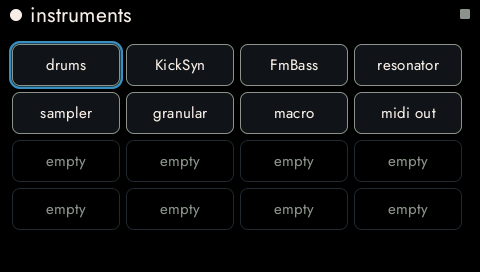
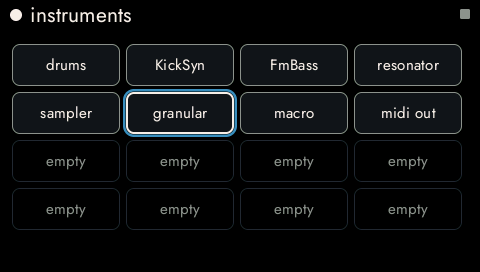
The granular is on its own track F, in the unit, the pieces and a new project
Track F was left empty when the granular was built. It now holds the granular in the unit's start, in the eight factory projects (each with a fitting preset) and in a new empty project; the twin, docs and manual say so, and a test checks the order of the eight instruments (F-I07).

Changed region(s): [[0.25, 0.3235, 0.5, 0.5294], [0.0, 0.1471, 0.25, 0.3529], [0.25, 0.1765, 0.2812, 0.2941]]

diff --git a/guide/manual.tpl.html b/guide/manual.tpl.html
@@ -145,7 +145,7 @@ __PIECE_ROWS__
 <p class="sub">No rules, only things to press.</p>
 <ol class="steps">
   <li><div>Press <kbd>PLAY</kbd>. The demo plays, and the pad lights run along the steps. Press <kbd>PLAY</kbd> again to pause, and <kbd>STOP</kbd> to stop. <kbd>RESTART</kbd> goes back to step 1 and keeps playing.</div></li>
-  <li><div>Press the group buttons <kbd>A</kbd> to <kbd>H</kbd> one after another. Each track has its own colour and its own instrument, in the order of <kbd>PLUG-IN</kbd>: drums, kick, bass, strings and bells, sampler, (F is empty: choose the granular there, recipe 20), synth, and last the MIDI out. The right screen changes with it.</div></li>
+  <li><div>Press the group buttons <kbd>A</kbd> to <kbd>H</kbd> one after another. Each track has its own colour and its own instrument, in the order of <kbd>PLUG-IN</kbd>: drums, kick, bass, strings and bells, sampler, granular (recipe 20), synth, and last the MIDI out. The right screen changes with it.</div></li>
   <li><div>Hold <kbd>MUTE</kbd> and press a group button: that track goes quiet. Do it again to bring it back. Mute everything except the bass and the kick and you have the skeleton of the piece.</div></li>
   <li><div>Turn knobs 5–8 while the demo plays. The right screen names what each one does, and the picture changes with the sound. This is the main way to shape a sound.</div></li>
   <li><div>Hold <kbd>TEMPO</kbd> and turn the 4D encoder (the big knob in the corner): the tempo changes, and the left screen shows it in large numbers while you hold the button.</div></li>
@@ -337,9 +337,9 @@ __PIECE_ROWS__
   <h3>11 <span>CHOOSE AN INSTRUMENT</span></h3>
   <p class="goal">Put a different instrument on a track.</p>
   <ol class="steps">
-    <li><div>Press group <kbd>F</kbd> (empty).</div></li>
+    <li><div>Press group <kbd>F</kbd> (it has the granular; any track can take any instrument).</div></li>
     <li><div>Press <kbd>PLUG-IN</kbd>. Both screens show sixteen places. The top two rows are the eight instruments that come with OP-8, from the most guttural to the most refined: <b>drums</b>, <b>KickSyn</b>, <b>FmBass</b>, <b>resonator</b> on the first row; <b>sampler</b>, <b>granular</b>, <b>macro</b> and, last, <b>midi out</b> on the second. The tracks follow the same order: A is the drums and H the MIDI out. The two bottom rows are places for instruments you will install later. The instrument this track has is outlined.</div></li>
-    <li><div>Tap the fourth pad, the <b>resonator</b>. It goes on track F, and the screens go back to composing.</div></li>
+    <li><div>Tap the fourth pad, the <b>resonator</b>. It takes the place of the granular on track F (you can bring the granular back the same way), and the screens go back to composing.</div></li>
     <li><div>Press <kbd>5</kbd> (<kbd>sound</kbd>) and <kbd>6</kbd> (<kbd>shape</kbd>) to move between the instrument's two pages of four knobs.</div></li>
   </ol>
   <figure><div class="pair"><img src="img/r11-plugin-left.png" alt="PLUG-IN: sixteen places."><img src="img/r11-shape-right.png" alt="The second page of the resonator."></div><figcaption>Left: the sixteen places. Right: the second page of the resonator, with its drawing of eight bells.</figcaption></figure>
@@ -469,7 +469,7 @@ __PIECE_ROWS__
   <h3>20 <span>GRANULAR: A CLOUD FROM A SOUND</span></h3>
   <p class="goal">Turn a short sound into something that lasts, and move through it while it sounds.</p>
   <ol class="steps">
-    <li><div>Press group <kbd>F</kbd> (it is empty), then <kbd>PLUG-IN</kbd> and tap <b>granular</b>, the sixth of the eight on the top two rows. The right screen draws the <b>wave</b> of a sound (the <b>pad</b>, to begin with).</div></li>
+    <li><div>Press group <kbd>F</kbd>: the <b>granular</b> is there already (it is the sixth instrument of <kbd>PLUG-IN</kbd>, between the sampler and the synth, and track F; if you put something else on F, tap <b>granular</b> in <kbd>PLUG-IN</kbd> to bring it back). The right screen draws the <b>wave</b> of a sound (the <b>pad</b>, to begin with).</div></li>
     <li><div>Press <kbd>KEYBOARD</kbd> and hold a pad. A cloud starts, and every grain that sounds is drawn as a small <b>bar</b> where it is reading the sound. Hold two or three pads: the grains take their pitch from the keys, in turn.</div></li>
     <li><div>Still holding, turn <b>knob 6, position</b>: the line in the colour of knob 6 moves along the wave and the cloud is cut from somewhere else. <b>Knob 7, size</b>, is how long each grain is (the line under the wave, in the colour of knob 7): short grains are a buzz, long ones a smear of the original sound.</div></li>
     <li><div><b>Knob 8, density</b>, does two things. Below the middle the grains come at <b>regular</b> intervals and the further left, the more of them; above the middle they come <b>by chance</b>, and the further right, the more of them. In the <b>middle</b>, a small dead zone, only the one grain that each key starts is heard: a sound that is cut and pitched, like a sampler.</div></li>

diff --git a/twin/op8-twin.html b/twin/op8-twin.html
@@ -430,9 +430,9 @@ const CARTS = {
   midi: { name: "MIDIOUTBRIDGE", cat: "MIDI",
     params: [["CHANNEL",0,v=>"CH "+(Math.min(15,Math.floor(v*16))+1)],["TRANSP",.5,v=>{const s=Math.round(-24+48*v);return (s>0?"+":"")+s+"st";}],["VEL",1,v=>Math.round(v*100)+"%"],["CC74",.5,v=>Math.round(v*100)+"%"]] },
 };
-// the instruments run from the most guttural to the most refined, the order of PLUG-IN: drums, kick, bass, resonator, sampler, (granular), the leads (macro), and the MIDI out last
+// the instruments run from the most guttural to the most refined, the order of PLUG-IN: drums, kick, bass, resonator, sampler, granular, the leads (macro), and the MIDI out last
 let VOL = 1; // master volume
-const SLOTS = ["drums", "kick", "fm", "resonator", "sampler", null, "macro", "midi"];
+const SLOTS = ["drums", "kick", "fm", "resonator", "sampler", "granular", "macro", "midi"];
 const PARAMS = SLOTS.map(s => s ? CARTS[s].params.map(p => p[1]) : null);
 // the knobs edit the chosen drum sound: keep its values in step with PARAMS
 function drumsSync(t, i) {
@@ -1256,11 +1256,11 @@ function settingsBar(g, title) { dot(g, 16, 15, 6, FG); txt(g, title, 30, 6, "mi
 const FILE_NAMES = ["house", "boom bap", "dub", "polyrhythm", "acid", "electro", "ambient", "breaks"];
 // The eight pieces that come with the machine (crates/op8/src/factory.rs): the same steps, components, chords, effects and LFOs.
 const KICK = 1, SNARE = 2, CHAT = 4, OHAT = 8, TOM = 16, CLAP = 32, RIM = 64, CRASH = 128;
-const PIECE_PRESETS = [ // by track A to H, and the share of each instrument's level that the piece keeps
-  [["", "punch", "round", "steel", "", "", "chords", ""], 0.85], [["", "soft", "sub", "nylon", "voice", "", "", ""], 1.0],
-  [["", "boom", "sub", "bell", "", "", "swarm", ""], 0.8], [["", "soft", "", "harp", "bell", "", "strings", ""], 1.0],
-  [["", "tight", "acid", "", "", "", "", ""], 0.5], [["", "click", "growl", "", "", "", "chip", ""], 0.65],
-  [["", "", "", "glass", "pad", "", "strings", ""], 1.0], [["", "hard", "growl", "muted", "tick", "", "", ""], 1.0]];
+const PIECE_PRESETS = [ // by track A to H, and the share of each instrument's level that the piece keeps (the same as PRESETS in factory.rs)
+  [["", "punch", "round", "steel", "", "shimmer", "chords", ""], 0.85], [["", "soft", "sub", "nylon", "voice", "rumble", "", ""], 1.0],
+  [["", "boom", "sub", "bell", "", "dust", "swarm", ""], 0.8], [["", "soft", "", "harp", "bell", "bells", "strings", ""], 1.0],
+  [["", "tight", "acid", "", "", "swarm", "", ""], 0.5], [["", "click", "growl", "", "", "glitch", "chip", ""], 0.65],
+  [["", "", "", "glass", "pad", "cloud", "strings", ""], 1.0], [["", "hard", "growl", "muted", "tick", "glitch", "", ""], 1.0]];
 function brainOf(key, scale, kind, degrees) { return { key, scale, mode: 1, len: degrees.length, live: null, prog: Array.from({ length: 8 }, (_, k) => ({ degree: degrees[k] || 0, kind, length: 16 })) }; }
 function factoryProject(i) {
   const p = demoProject();
@@ -1330,7 +1330,7 @@ function factoryProject(i) {
 // the standard tracks, in the order of PLUG-IN: A drums, B kick, C fm, D resonator, E sampler, F empty (the granular), G macro, H MIDI out
 function applyPiece(i) {
   const [names, gain] = PIECE_PRESETS[i];
-  SLOTS.splice(0, 8, "drums", "kick", "fm", "resonator", "sampler", null, "macro", "midi");
+  SLOTS.splice(0, 8, "drums", "kick", "fm", "resonator", "sampler", "granular", "macro", "midi");
   SLOTS.forEach((s, t) => {
     PARAMS[t] = s ? CARTS[s].params.map(q => q[1]) : null;
     if (!s) return;

diff --git a/crates/op8/src/factory.rs b/crates/op8/src/factory.rs
@@ -1,7 +1,7 @@
 //! The eight projects that always ship (the top two rows of the FILE pads): eight short pieces in eight
 //! styles, so that the first thing anyone hears is what the machine can do. Each is made only with the
 //! factory instruments and their presets, on the standard tracks (A drums, B KickSyn, C FmBass, D resonator,
-//! E MIDI out, F macro, G sampler), so it always loads.
+//! E sampler, F granular, G macro, H MIDI out), so it always loads.
 
 use crate::projectfile::ProjectFile;
 use op8_seq::{
@@ -48,7 +48,7 @@ fn inst(name: &str, preset: &str, gain: f32) -> Option<(String, Vec<u8>)> {
 /// The instruments of a piece, by track: the standard layout, with a preset on each that plays and the level of each brought by `gain`
 /// (the pieces are about as loud as each other).
 fn instruments(presets: [&str; 8], gain: f32) -> Vec<Option<(String, Vec<u8>)>> {
-    let names = [Some("drums"), Some("KickSyn"), Some("FmBass"), Some("resonator"), Some("sampler"), None, Some("macro"), Some("MidiOutBridge")];
+    let names = [Some("drums"), Some("KickSyn"), Some("FmBass"), Some("resonator"), Some("sampler"), Some("granular"), Some("macro"), Some("MidiOutBridge")];
     names.iter().zip(presets).map(|(n, p)| n.and_then(|n| inst(n, p, gain))).collect()
 }
 
@@ -286,14 +286,14 @@ pub fn project(i: usize) -> Project {
 
 /// The presets of each piece, by track A to H (`""`: as it comes), and how much of the level of its instruments it keeps.
 const PRESETS: [([&str; 8], f32); 8] = [
-    (["", "punch", "round", "steel", "", "", "chords", ""], 0.85),
-    (["", "soft", "sub", "nylon", "voice", "", "", ""], 1.0),
-    (["", "boom", "sub", "bell", "", "", "swarm", ""], 0.8),
-    (["", "soft", "", "harp", "bell", "", "strings", ""], 1.0),
-    (["", "tight", "acid", "", "", "", "", ""], 0.5),
-    (["", "click", "growl", "", "", "", "chip", ""], 0.65),
-    (["", "", "", "glass", "pad", "", "strings", ""], 1.0),
-    (["", "hard", "growl", "muted", "tick", "", "", ""], 1.0),
+    (["", "punch", "round", "steel", "", "shimmer", "chords", ""], 0.85),
+    (["", "soft", "sub", "nylon", "voice", "rumble", "", ""], 1.0),
+    (["", "boom", "sub", "bell", "", "dust", "swarm", ""], 0.8),
+    (["", "soft", "", "harp", "bell", "bells", "strings", ""], 1.0),
+    (["", "tight", "acid", "", "", "swarm", "", ""], 0.5),
+    (["", "click", "growl", "", "", "glitch", "chip", ""], 0.65),
+    (["", "", "", "glass", "pad", "cloud", "strings", ""], 1.0),
+    (["", "hard", "growl", "muted", "tick", "glitch", "", ""], 1.0),
 ];
 
 /// A new, empty project: the standard instruments as they come and nothing in the steps (a tap on an empty place of FILE).

diff --git a/crates/op8/tests/plugin.rs b/crates/op8/tests/plugin.rs
@@ -125,3 +125,29 @@ fn f_i06_the_granular_plays_a_cloud_from_a_step() {
     b.tap(pad_of(3));
     assert!(b.ui().browse_note.starts_with("loaded"), "{}", b.ui().browse_note);
 }
+
+// F-I07: the standard tracks hold the eight instruments in the order of PLUG-IN, from the most guttural to the most refined, with the MIDI out
+// last: A drums, B KickSyn, C FmBass, D resonator, E sampler, F granular, G macro, H MIDI out. The unit starts so, and so does every project
+// that comes with it and a new empty one.
+#[test]
+fn f_i07_the_standard_tracks_hold_the_eight_instruments_in_order() {
+    let order = ["drums", "KickSyn", "FmBass", "resonator", "sampler", "granular", "macro", "MidiOutBridge"];
+    let check = |b: &Bench, what: &str| {
+        for (t, name) in order.iter().enumerate() {
+            assert_eq!(b.instrument(t).as_deref(), Some(*name), "{what}: track {t}");
+        }
+    };
+    check(&Bench::demo(), "the unit as it starts");
+    check(&Bench::empty(), "the empty rig");
+    let mut b = Bench::demo();
+    for slot in 0..8 {
+        b.press(Button::File);
+        b.tap(pad_of(slot));
+        b.run_ms(50);
+        check(&b, &format!("factory project {slot}"));
+    }
+    b.press(Button::File);
+    b.tap(pad_of(10)); // an empty place of the player's: a new empty project
+    b.run_ms(50);
+    check(&b, "a new empty project");
+}

diff --git a/crates/op8/src/demo.rs b/crates/op8/src/demo.rs
@@ -2,7 +2,7 @@
 //! `op8 run` on first boot and by `op8 sim`.
 
 use op8_cartridge::InstrumentCartridge;
-use op8_cartridges::{Drums, FmBass, KickSyn, MacroOsc, MidiMessage, MidiOutBridge, Resonator, Sampler};
+use op8_cartridges::{Drums, FmBass, Granular, KickSyn, MacroOsc, MidiMessage, MidiOutBridge, Resonator, Sampler};
 use op8_engine::{Engine, EngineHandle, SharedCartridge};
 use op8_seq::{Project, Step, StepComponent, TRACKS};
 use std::sync::{Arc, Mutex};
@@ -14,7 +14,7 @@ fn shared(c: impl InstrumentCartridge + 'static) -> Option<SharedCartridge> {
 }
 
 /// The instruments run from the most guttural to the most refined, the order of PLUG-IN: A drums (a kit), B KickSyn,
-/// C FmBass, D resonator, E sampler, F empty (the granular is chosen in PLUG-IN), G macro (the leads), H the MIDI out (always last).
+/// C FmBass, D resonator, E sampler, F granular, G macro (the leads), H the MIDI out (always last).
 pub fn slots() -> (
     [Option<SharedCartridge>; TRACKS],
     rtrb::Consumer<MidiMessage>,
@@ -26,6 +26,7 @@ pub fn slots() -> (
     s[2] = shared(FmBass::new());
     s[3] = shared(Resonator::new());
     s[4] = shared(Sampler::new());
+    s[5] = shared(Granular::new());
     s[6] = shared(MacroOsc::new());
     s[7] = shared(bridge);
     (s, midi_rx)

diff --git a/crates/op8/tests/manual.rs b/crates/op8/tests/manual.rs
@@ -308,7 +308,7 @@ fn recipe_10_perform() {
 fn recipe_11_choose_an_instrument() {
     let _one_at_a_time = serial();
     let mut b = Bench::empty();
-    b.press(Button::Group(5)); // F is empty
+    b.press(Button::Group(5)); // F: the granular, which the resonator replaces
     b.press(Button::PlugIn);
     b.run_ms(100);
     b.capture("r11-plugin");
@@ -563,9 +563,10 @@ fn recipe_19_the_mix() {
 fn recipe_20_granular_a_cloud_from_a_sound() {
     let _one_at_a_time = serial();
     let mut b = Bench::demo();
-    b.press(Button::Group(5)); // F, empty
+    b.press(Button::Group(5)); // F: the granular is there already
+    assert_eq!(b.instrument(5).as_deref(), Some("granular"));
     b.press(Button::PlugIn);
-    b.tap(pad(6)); // the granular, the sixth of the eight
+    b.tap(pad(6)); // choosing it again changes nothing
     assert_eq!(b.instrument(5).as_deref(), Some("granular"));
     b.press(Button::Keyboard);
     b.strike_at(0, 0.9); // hold a pad

diff --git a/crates/op8/src/bench.rs b/crates/op8/src/bench.rs
@@ -196,6 +196,12 @@ impl Bench {
         self.app.handle.slots[track].as_ref().and_then(|c| c.lock().ok().map(|c| c.info().name))
     }
 
+    /// Take the instrument off a track (a test of what a track with nothing on it does).
+    pub fn clear_instrument(&mut self, track: usize) {
+        self.app.handle.slots[track] = None;
+        self.app.handle.send(op8_engine::EngineCommand::LoadCartridge { track: track as u8, cartridge: None });
+    }
+
     /// Where FILE saves the player's projects (a folder of the test's own).
     pub fn set_presets_dir(&mut self, dir: std::path::PathBuf) {
         self.app.ctl.presets_dir = Some(dir);

diff --git a/crates/op8/tests/browser.rs b/crates/op8/tests/browser.rs
@@ -144,6 +144,7 @@ fn f_k16_the_presets_that_come_with_it() {
     assert!(b.param(0, 1) > 0.7, "decay is the preset's");
     // and a track with no instrument has none
     b.press(Button::Browser);
+    b.clear_instrument(5);
     b.press(Button::Group(5));
     b.press(Button::Browser);
     b.tap(pad_of(1));

diff --git a/docs/roadmap.md b/docs/roadmap.md
@@ -123,7 +123,7 @@ Asked by Javi on 2026-11-15, one pull request each, in this order:
 2. **BROWSER (presets), the sampler's stage 3.** Done (2026-11-15, not yet tried on the unit): the button opens a main mode on both screens; the sixteen pads are sixteen presets of the selected track's instrument (the top two rows the instrument's own, the bottom two the player's); a tap loads one and plays a note, SHIFT + tap on the bottom rows saves the current knobs into `~/.config/op8/presets/<instrument>/user-N.preset`. Presets are per instrument. The presets that come with the instruments are done as a first set of eight each (2026-11-15, [instruments.md §8](instruments.md)), checked by measurement and not yet by ear. To do: tune them on the unit, naming and deleting a preset.
 3. **The manual, complete and in matte.** Done (2026-11-15): a diagram of the unit at the start with every part named and numbered (buttons, screens, knobs, pads, groups, transport, 4D encoder, Smart Strip), so that the rest of the manual can say "button 5" or "group G"; the manual checked against the code (the instruments, "where OP-8 keeps your things", "if something is odd", "not yet"); the page and all its pictures in the matte theme; recipes 16 (SAMPLING) and 17 (BROWSER).
 4. **The public site (guide and manual).** Asked on 2026-11-15: the guide and the manual as one introduction to the project that can be published, well connected, in the matte theme (matte first, then glossy, then chrome; brand stays apart). Done: the sources are templates with a shared header, footer and style; `scripts/build-site.py` builds `site/` (pages, 404, `robots.txt`, `sitemap.xml`, the sharing image, social tags, the twin as "Try it"); `scripts/check-site.py` checks links, anchors, images and metadata and runs in `cargo test` (F-G05); the Pages workflow builds, checks and publishes it; the manual works on a phone. The home page now says what OP-8 is, what you need (the MK3 and a Pi 5, with a Pi 4 as the floor) and where it stands, in plain words for someone who has never heard of it. To do: look at it on a phone and a laptop once published; **to publish**, fill in the address of the site and of the repository (`guide/site.json`, or `OP8_SITE_URL` and the repository variable `OP8_REPO_URL`) and enable Pages (Settings, Pages, source GitHub Actions; a public repository or a plan that includes Pages), then look at it once on a phone and a laptop.
-5. **Eight pieces and the order of the instruments.** Asked on 2026-11-15: eight musical examples to hear what the machine can do, and the MIDI out last. Done: the factory projects are house, boom bap, dub, polyrhythm, acid, electro, ambient and breaks (levels matched, F-F07); PLUG-IN and the standard tracks run drums, KickSyn, FmBass, resonator, sampler, (granular), macro, MIDI out; an empty place of the player's in FILE opens a new empty project; a pad that closes FILE or PLUG-IN no longer toggles a step when it is let go. To do: tune the pieces and the presets by ear on the unit.
+5. **Eight pieces and the order of the instruments.** Asked on 2026-11-15: eight musical examples to hear what the machine can do, and the MIDI out last. Done: the factory projects are house, boom bap, dub, polyrhythm, acid, electro, ambient and breaks (levels matched, F-F07); PLUG-IN and the standard tracks run drums, KickSyn, FmBass, resonator, sampler, granular, macro, MIDI out; an empty place of the player's in FILE opens a new empty project; a pad that closes FILE or PLUG-IN no longer toggles a step when it is let go. To do: tune the pieces and the presets by ear on the unit.
 6. **Navigation with the 4D encoder.** Asked on 2026-11-15: every screen has items that can be reached with the central 4D encoder, global and easy. Decided: a focus that is always visible (a ring and a dot), the encoder turns it, the arrows move it across the screens, push activates or grabs a value, and the tempo is only turned while TEMPO is held. Done (2026-11-15; no dot, only the frame): the mechanism and every view: FILE, PLUG-IN, BROWSER, SAMPLING (with its four values) and composing (the screen buttons 1–8, the tracks A–H, the pads of the grid and the eight values under the screens, which push grabs and the 4D edits), and an opened piece shows its music (F-N01 to F-N10). Not yet tried on the unit. 2026-11-16: the frame of a track hugs its round capsule, and PERFORM works with the 4D (the focus visits the sixteen effects where they are drawn, push engages one and keeps it, turning is its intensity; Brain lists no pads) (F-N11, F-N12). 2026-11-16, after a photo of the unit: the ink over a coloured fill is made to read (`readable`, F-D19) and no ring goes off the screen, the ring of a screen button lying on its own capsule (F-N13). 2026-11-16: the eight sounds of a drum kit can be chosen with the 4D from the right screen (F-N14). The step inspector's own items were added on 2026-11-16 (F-N15).
 7. **After that.** Granular (reuses the sampler); KEYBOARD on a drum kit like PAD MODE; a basic mixer; naming and deleting projects; PATTERN, SCENE and ARRANGER; real-MK3 verification of everything marked "not yet tried" above.
 
@@ -134,7 +134,7 @@ Saved on 2026-11-16, after the batch of section 8. Development goes on first and
 **Development, in the order proposed**
 
 1. Done (2026-11-16): the step inspector's own items: its components and values reached with the focus and the 4D, like every other view (F-N15).
-2. Done (2026-11-16): granular, from the grain scheduler of Clouds (MIT) rewritten in Rust, on the sampler's bank of sounds (F-A21, F-I06). Not tried by ear on the unit yet.
+2. Done (2026-11-16): granular, from the grain scheduler of Clouds (MIT) rewritten in Rust, on the sampler's bank of sounds (F-A21, F-I06), and on its own track F in the standard layout, in the unit, the eight pieces and a new empty project (F-I07). Not tried by ear on the unit yet.
 3. Done (2026-11-16): KEYBOARD on a drum kit is PAD MODE (F-K17).
 4. Done (2026-11-16): the basic mixer: a level and a pan for each track, turned with VOLUME held and the knobs (SHIFT for the pan), saved with the project (format version 3) (F-A20, F-K18, F-D20). Still to do: a master compressor, sends, and a page for the MIXER button.
 5. Done (2026-11-16): names for projects and presets (by the day, and a text file the player can edit) and ERASE + a tap, twice, to erase one (F-F08, F-F09, F-K19). **To do, later:** naming on the unit itself: a text screen where the 4D encoder chooses the letter, the pads move the cursor and SHIFT keeps it (names of up to 12 characters); it would be reusable for any other name.

diff --git a/docs/features.md b/docs/features.md
@@ -194,6 +194,7 @@ The buttons and their implementation status are in [buttons.md](buttons.md). Thi
 | F-K19 | The same in BROWSER for the presets of an instrument: named by the day, erased on the second touch, those that come with the instrument stay | `ui().browse`, `ui().confirm`, the files | ✓ |
 | F-A21 | The granular makes a cloud only while a note is held and fades after: nothing without a note; `position` chooses where in the sound the grains are cut; `density` is regular on one side of the middle, random on the other and only the note's own grain in the middle, with more grains the further from the middle; `size` is how long that grain lasts; held notes and `tune` set the pitch (an octave is twice the crossings); `spread` scatters between the speakers (none: both the same); the same notes make the same cloud, and six notes at the busiest stay finite and bounded; a sound put in a place while it plays is the one heard; an empty place is silent; the drawing shows the grains | unit tests in `granular.rs` on the audio of a tone | ✓ |
 | F-I06 | The granular can be chosen in PLUG-IN, plays a cloud from a step, has two pages (`sample, position, size, density` and `tune, texture, spread, level`), has eight presets in BROWSER, and what SAMPLING saves is heard in a granular that is already playing | `instrument(track)`, the track's audio and note count, `ui().has_second`, `ui().browse` | ✓ |
+| F-I07 | The standard tracks hold the eight instruments in the order of PLUG-IN, drums first and the MIDI out last (A drums, B KickSyn, C FmBass, D resonator, E sampler, F granular, G macro, H MIDI out): the unit starts so, and so does every project that comes with it and a new empty one | `instrument(track)` on the unit, on each factory project and on a new empty project | ✓ |
 | F-D18 | BROWSER draws both screens (the sixteen presets on the left, the instrument's name and what the pads do on the right) and changes when something is saved; its button and the pad LEDs follow it | pixel hashes and lit pixels, the LED slots | ✓ |
 | F-D16 | SAMPLING draws both screens (the pads on the left, the wave, the level and the four knobs on the right); the right screen moves while nothing records; the pad and button LEDs follow it | pixel hashes and lit pixels, `ui().smp` | ✓ |
 | F-I05 | The sampler can be chosen in PLUG-IN, has two pages (`sample`, `start`, `length`, `tune` and `attack`, `release`, `loop`, `level`), plays a sound from a step, and the right screen draws its wave | `instrument(track)`, the track's audio and note count, `ui().has_second` | ✓ |

diff --git a/docs/instruments.md b/docs/instruments.md
@@ -94,7 +94,7 @@ Everything in OP-8 is built on eight, and the MK3 has sixteen pads. So the libra
 | **Instruments** (PLUG-IN) | 8 that always ship and cannot be removed | 8 places for instruments installed as separate packages (stage 2 and 3 of §3) |
 | **Projects** (FILE) | 8 music projects that always ship (done: eight short pieces in eight styles: house, boom bap, dub, polyrhythm, acid, electro, ambient, breaks; [§9](#9-the-eight-pieces-that-come-with-it)) | 8 places for the player's own projects (done) |
 
-The factory eight, confirmed by Javi on 2026-11-14 (all exist since 2026-11-16). **They are ordered from the most guttural to the most refined, drums first, the leads next to last and the MIDI out last (decided by Javi on 2026-11-15)**; that order is the order of the pads of PLUG-IN and of the standard tracks: A drums, B KickSyn, C FmBass, D resonator, E sampler, F empty (the granular goes here when it exists), G macro, H MIDI out. The MIDI out is last because it makes no sound of its own, and because the MK3 will eventually also take input: MIDI out and sound in. The order of work is drums and resonator (done), sampler (stage 1 done), granular.
+The factory eight, confirmed by Javi on 2026-11-14 (all exist since 2026-11-16). **They are ordered from the most guttural to the most refined, drums first, the leads next to last and the MIDI out last (decided by Javi on 2026-11-15)**; that order is the order of the pads of PLUG-IN and of the standard tracks: A drums, B KickSyn, C FmBass, D resonator, E sampler, F granular, G macro, H MIDI out. The MIDI out is last because it makes no sound of its own, and because the MK3 will eventually also take input: MIDI out and sound in. The order of work is drums and resonator (done), sampler (stage 1 done), granular.
 
 | # | Instrument | Idea | Status |
 | :-- | :-- | :-- | :-- |
